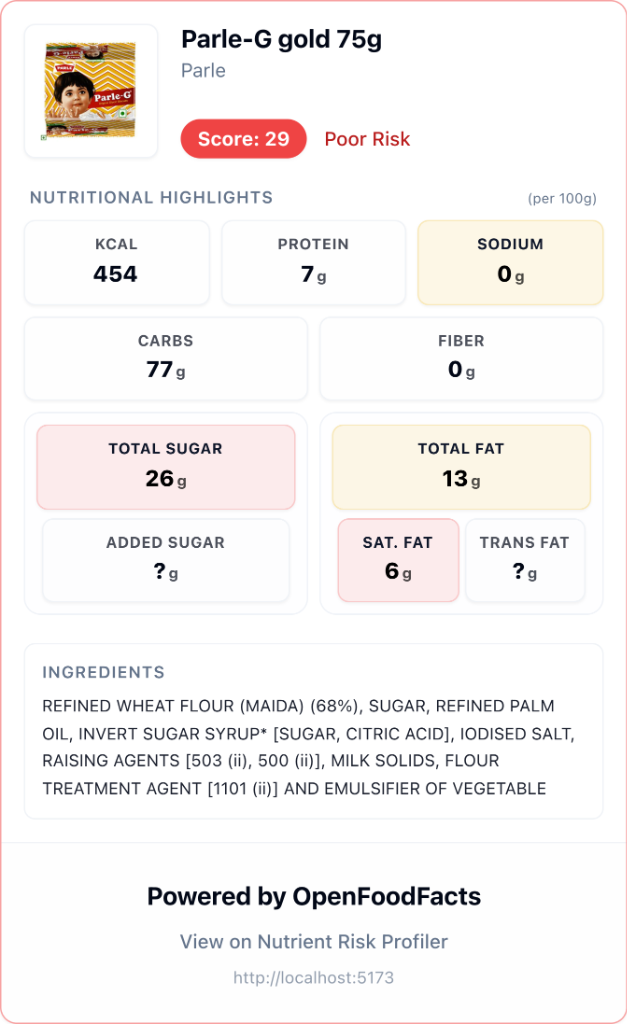
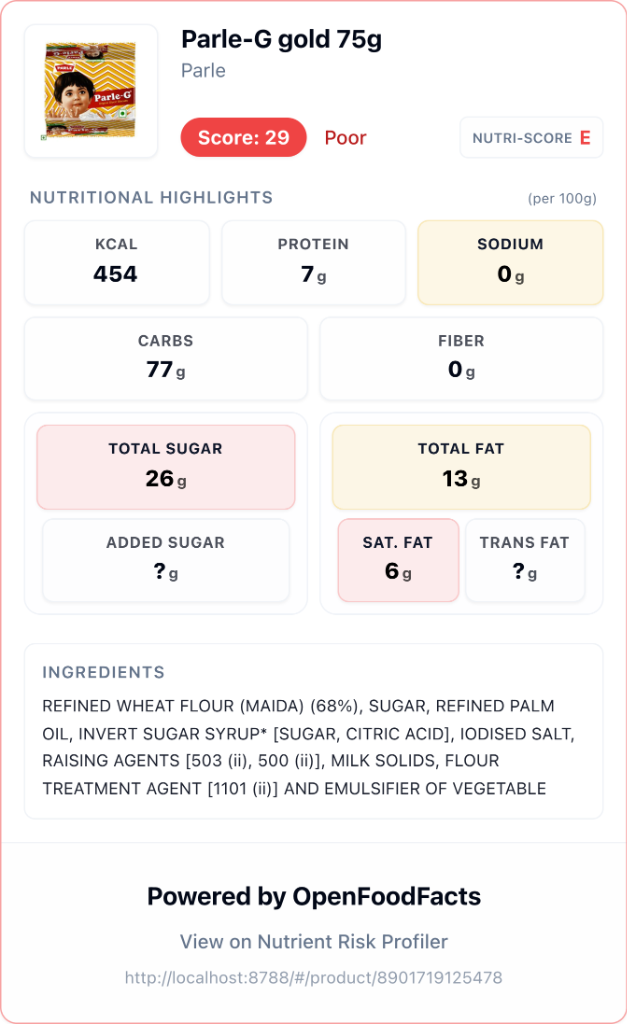
feat: display Nutri-Score with OpenFoodFacts link in product details and update example screenshots.

diff --git a/src/components/ProductDetails.jsx b/src/components/ProductDetails.jsx
@@ -1,5 +1,5 @@
 import React, { useState } from 'react';
-import { ArrowLeft, Share2, Download, ThumbsUp, ThumbsDown } from 'lucide-react';
+import { ArrowLeft, Share2, Download, ThumbsUp, ThumbsDown, ExternalLink } from 'lucide-react';
 import { Helmet } from 'react-helmet-async';
 import * as htmlToImage from 'html-to-image';
 import { calculateScore, getScoreLabel, getNutrientLevel } from '../utils/scoring';
@@ -100,6 +100,10 @@ const ProductDetails = ({ product, onBack }) => {
                     footer.style.display = 'flex';
                 }
 
+                // Hide external link icon for screenshot
+                const externalLinkIcon = document.getElementById('nutriscore-external-icon');
+                if (externalLinkIcon) externalLinkIcon.style.display = 'none';
+
                 // Get body background color (which is solid) instead of element background (which might be transparent/tinted)
                 const bodyStyle = window.getComputedStyle(document.body);
                 const bgColor = bodyStyle.backgroundColor;
@@ -117,6 +121,7 @@ const ProductDetails = ({ product, onBack }) => {
                     footer.classList.add('hidden');
                     footer.style.display = '';
                 }
+                if (externalLinkIcon) externalLinkIcon.style.display = '';
 
                 const link = document.createElement('a');
                 link.download = `${product.product_name.replace(/\s+/g, '-').toLowerCase()}-analysis.png`;
@@ -200,6 +205,21 @@ const ProductDetails = ({ product, onBack }) => {
                                 <span className={`text-sm font-medium ${colorTheme.text}`}>
                                     {scoreLabel}
                                 </span>
+                                {product.nutriscore_grade && (
+                                    <a
+                                        href={`https://world.openfoodfacts.org/product/${product.code}`}
+                                        target="_blank"
+                                        rel="noopener noreferrer"
+                                        className="ml-auto flex items-center gap-1 px-2 py-1 rounded-md bg-secondary/10 border border-border/50 hover:bg-secondary/20 transition-colors group"
+                                        title="View on OpenFoodFacts"
+                                    >
+                                        <span className="text-[10px] font-semibold text-muted-foreground uppercase">Nutri-Score</span>
+                                        <span className={`text-sm font-bold uppercase ${getNutriScoreColor(product.nutriscore_grade)}`}>
+                                            {product.nutriscore_grade}
+                                        </span>
+                                        <ExternalLink id="nutriscore-external-icon" className="h-3 w-3 text-muted-foreground/50 group-hover:text-muted-foreground ml-0.5" />
+                                    </a>
+                                )}
                             </div>
                         </div>
                     </div>
@@ -341,3 +361,14 @@ const NutrientBox = ({ label, value, unit, nutrientType, className = '' }) => {
 };
 
 export default ProductDetails;
+
+const getNutriScoreColor = (grade) => {
+    switch (grade?.toLowerCase()) {
+        case 'a': return 'text-green-600';
+        case 'b': return 'text-emerald-500';
+        case 'c': return 'text-yellow-500';
+        case 'd': return 'text-orange-500';
+        case 'e': return 'text-red-500';
+        default: return 'text-gray-500';
+    }
+};
